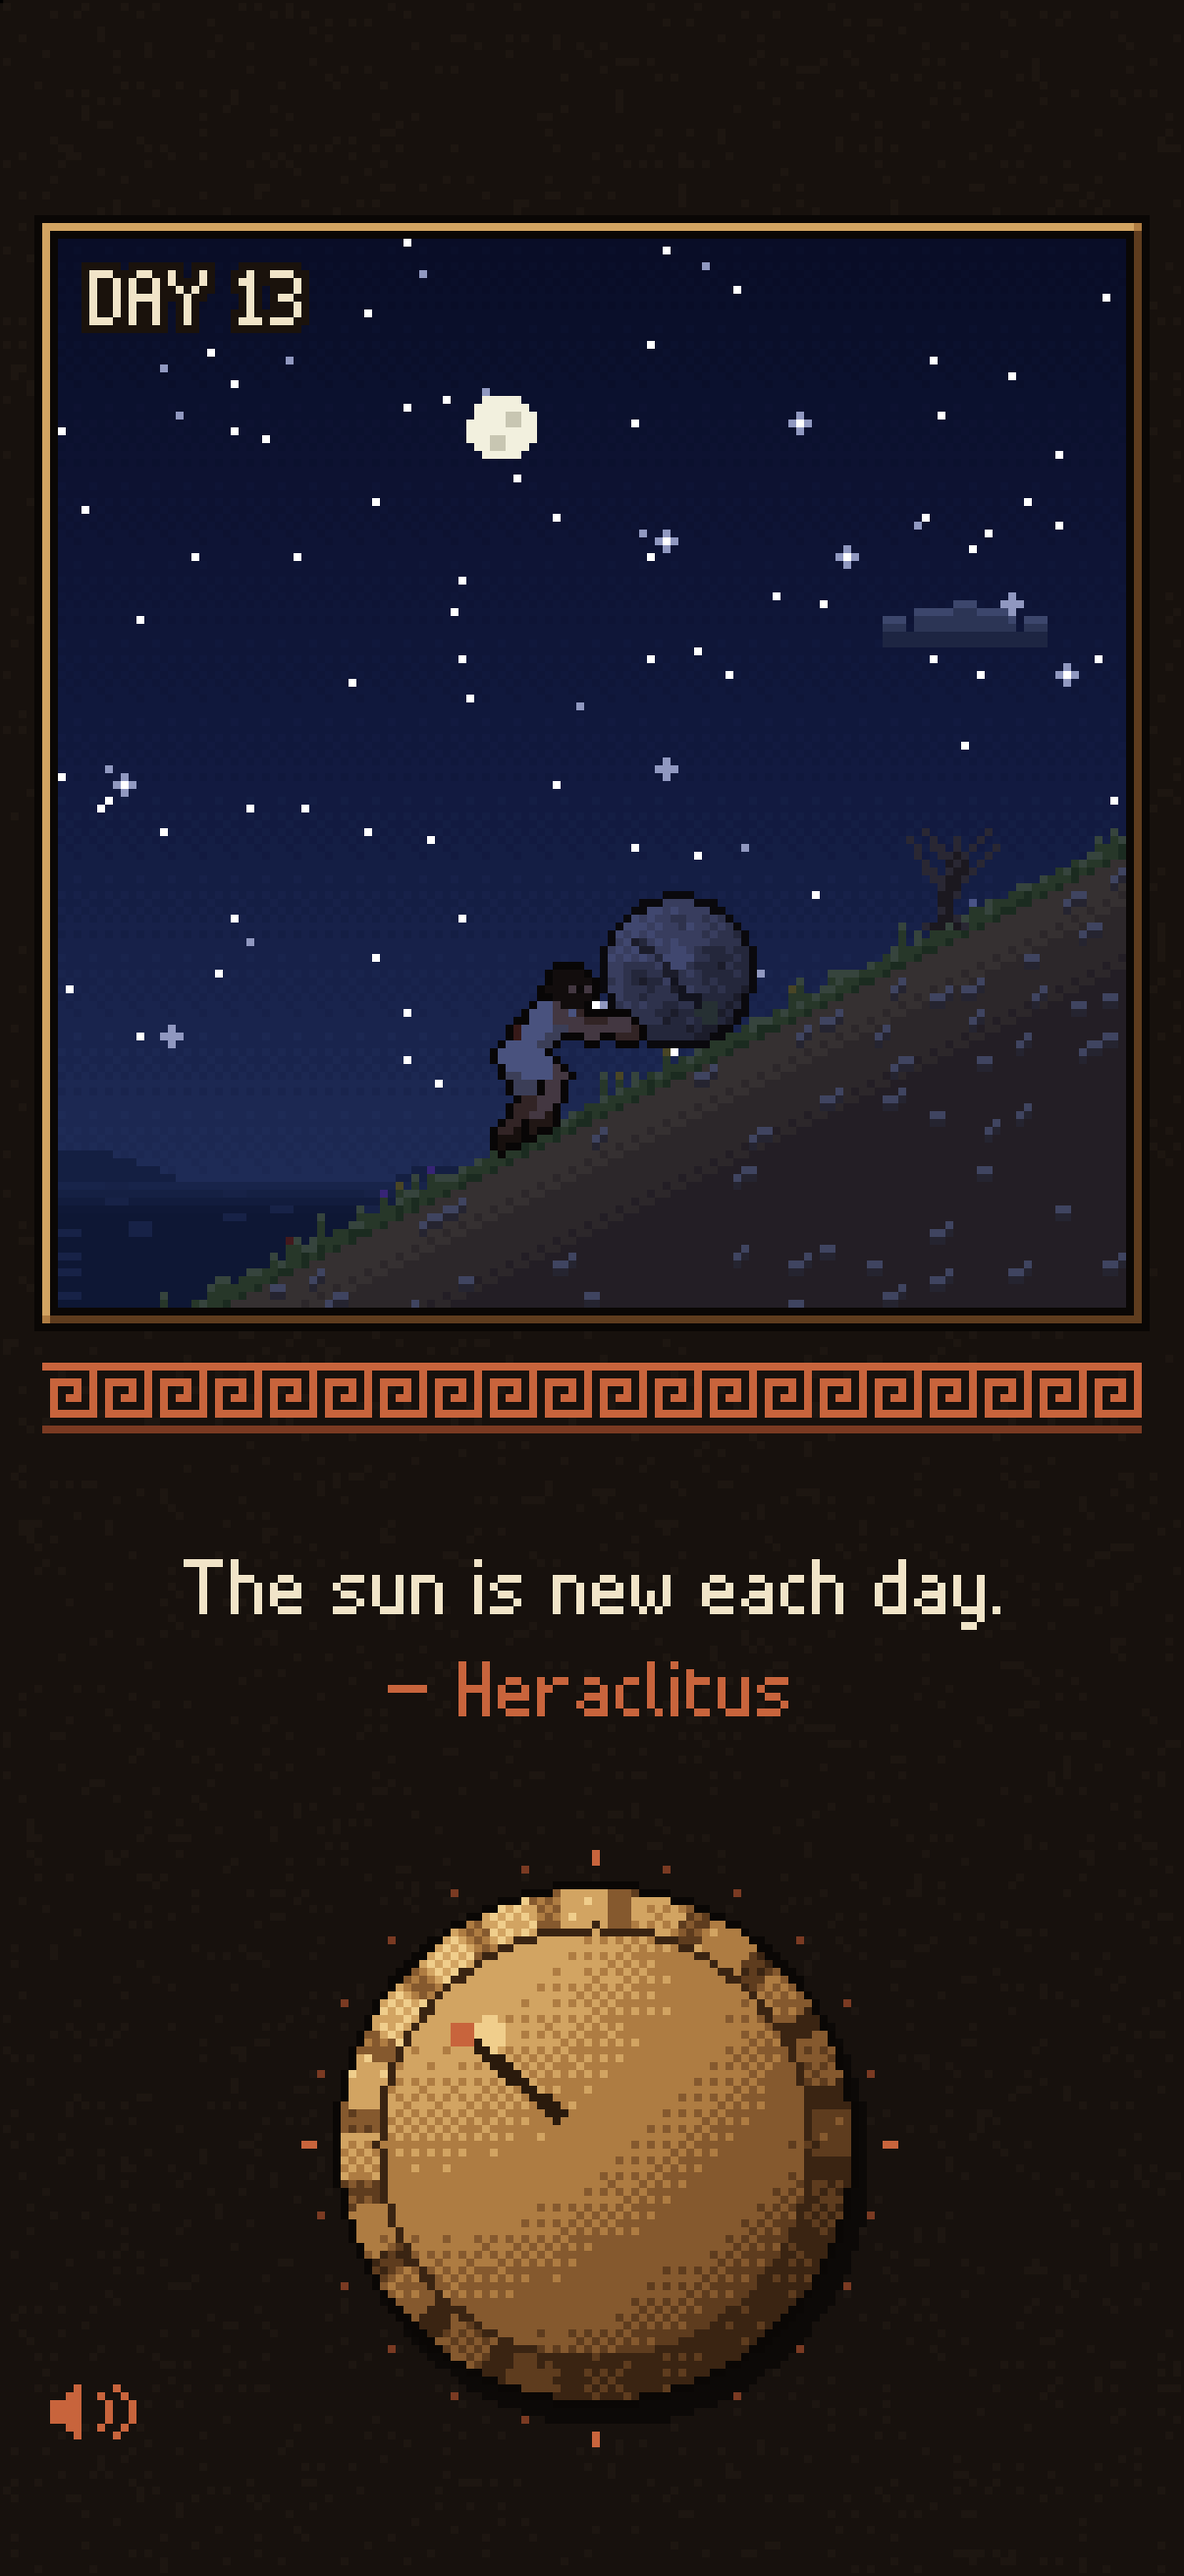
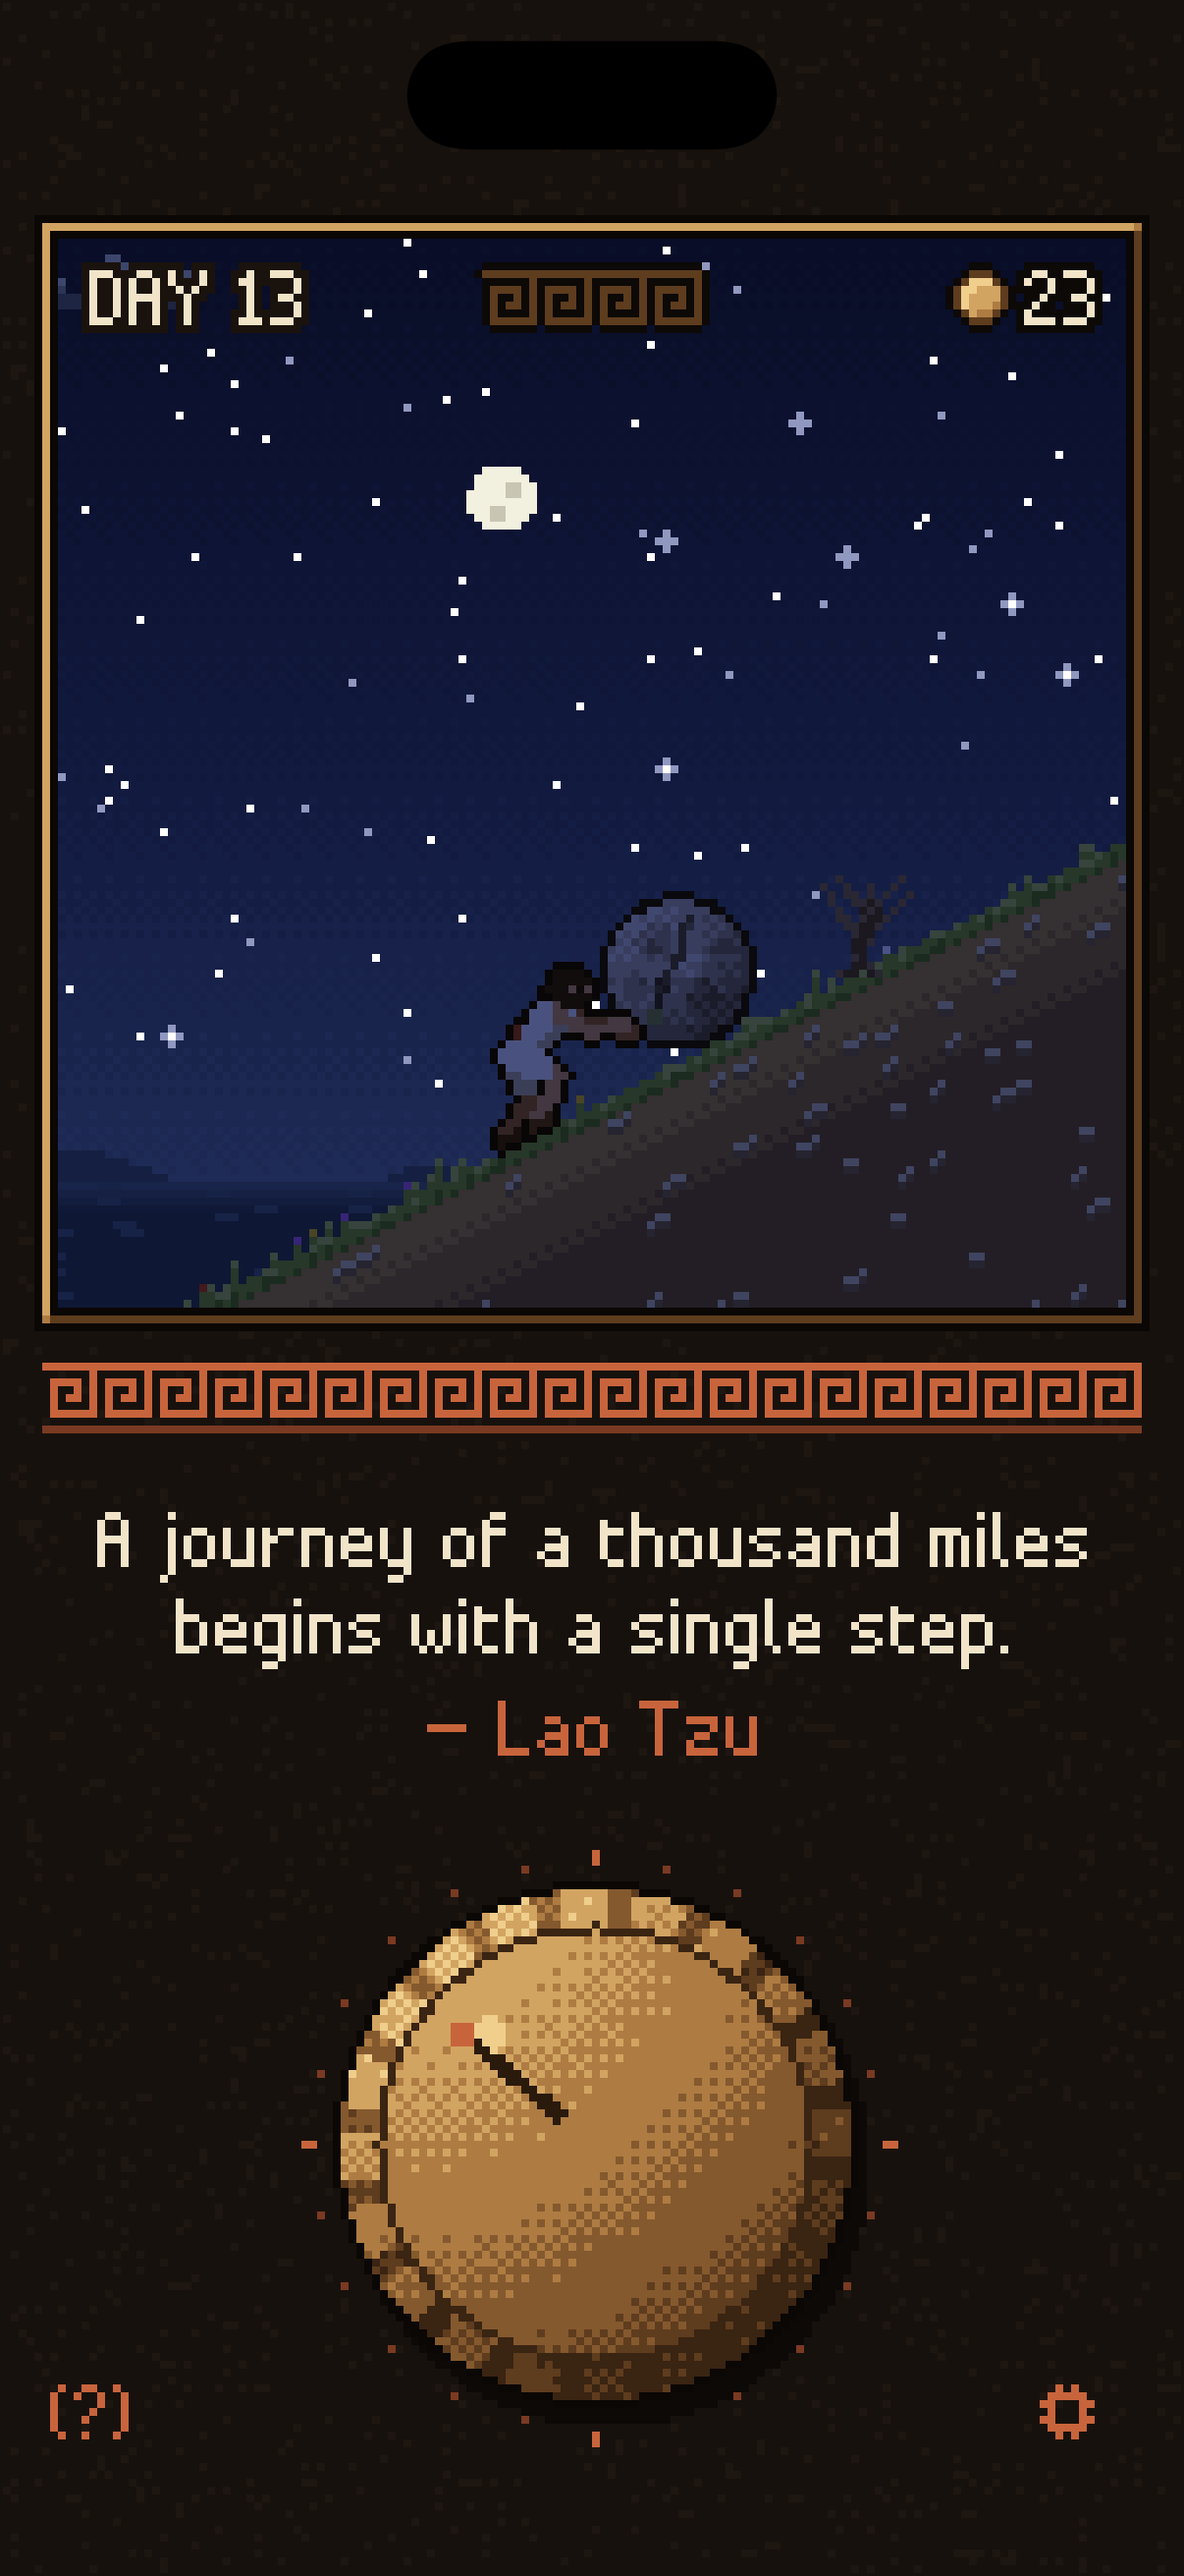
Take new store screenshots for 2.0, with a vision and Diogenes in place of noon and rain
- Morning, sunset and night again, with the obols and new wise words: Camus, Seneca and Lao Tzu.
- A vision: the Sphinx asks who said "Today the rock felt lighter. Or I got stronger."
- Diogenes by the path at noon, with his lamp line.
- stores/listing.md keeps the launch arguments of each shot, to take them again.

diff --git a/stores/listing.md b/stores/listing.md
@@ -50,9 +50,19 @@ Both stores take this text: the What's New of the App Store, and the release not
 
 ## Screenshots
 
-`screenshots/` holds the screenshots of both stores, taken on the iPhone simulator, five of each size: `1-morning.png` to `5-rain.png`.
+`screenshots/` holds the screenshots of both stores, taken on the iPhone simulator, five of each size: `1-morning.png`, `2-vision.png`, `3-sunset.png`, `4-night.png` and `5-diogenes.png`.
 
-- `6.9-inch/`: 1320 × 2868, from the iPhone 16 Pro Max. App Store Connect asks for this size, and can scale it for the smaller iPhones.
-- `6.3-inch/`: 1206 × 2622, from the iPhone 16 Pro, for the 6.3" and 6.1" displays.
+- `6.9-inch/`: 1320 × 2868, from the iPhone 17 Pro Max. App Store Connect asks for this size, and can scale it for the smaller iPhones.
+- `6.3-inch/`: 1206 × 2622, from the iPhone 17 Pro, for the 6.3" and 6.1" displays.
+
+To take them again, install a Release build on a new simulator, and launch it once for each shot with the saved keys as arguments, such as `xcrun simctl launch <sim> dev.oblac.sisyphus -sisyphus.effort 1762.56`. Each shot starts from a new install, with `-sisyphus.laborsSeen 20 -sisyphus.quotesDrawn 1 -sisyphus.nextStele 50000`, and `-sisyphus.nextJoker 50000` in all but Diogenes. The screenshots must have no alpha channel.
+
+| Shot | Arguments |
+|---|---|
+| `1-morning` | `-sisyphus.effort 1762.56 -sisyphus.position 420 -sisyphus.quoteSeed 694 -sisyphus.knob 0.6 -sisyphus.obols 4` |
+| `2-vision` | `-sisyphus.effort 7214.4 -sisyphus.position 700 -sisyphus.quoteSeed 1070 -sisyphus.knob 1.2 -sisyphus.obols 11 -sisyphus.visionSeed 1 -sisyphus.visionsDrawn 1 -sisyphus.nextVision 0.02`, then a turn of the knob; the shot is taken when the Sphinx asks |
+| `3-sunset` | `-sisyphus.effort 9905.76 -sisyphus.position 900 -sisyphus.quoteSeed 805 -sisyphus.knob 4.0 -sisyphus.obols 17` |
+| `4-night` | `-sisyphus.effort 10938.24 -sisyphus.position 580 -sisyphus.quoteSeed 312 -sisyphus.knob 5.4 -sisyphus.obols 23` |
+| `5-diogenes` | `-sisyphus.effort 7110.72 -sisyphus.position 100 -sisyphus.quoteSeed 1879 -sisyphus.knob 2.3 -sisyphus.obols 8 -sisyphus.joker 0 -sisyphus.met.0 0 -sisyphus.nextJoker 134` |
 
 Google Play takes no picture that is more than twice as tall as it is wide. Its screenshots in `playstore/screenshots/` are the 6.9-inch ones, cut to 1320 × 2640: see `playstore/listing.md`.

diff --git a/stores/playstore/listing.md b/stores/playstore/listing.md
@@ -33,7 +33,7 @@ Turn the bronze knob and push the boulder up an endless hill. Calm pixel art.
 
 - App icon (512 × 512): `icon-512.png`
 - Feature graphic (1024 × 500): `feature-graphic.png`
-- Phone screenshots (1320 × 2640): `screenshots/1-morning.png` to `5-rain.png`.
+- Phone screenshots (1320 × 2640): `screenshots/1-morning.png` to `5-diogenes.png`.
 
 Google Play takes no picture that is more than twice as tall as it is wide, so its screenshots are the 6.9-inch iPhone screenshots of `../screenshots/` with 114 rows cut at the top and at the bottom. After new iPhone screenshots, cut them again, from this folder:
 

diff --git a/stores/appstore/listing.md b/stores/appstore/listing.md
@@ -50,8 +50,8 @@ Apple reviews the first purchases only with a version: on the version page, add 
 
 ## Screenshots
 
-- iPhone 6.9" Display: `../screenshots/6.9-inch/1-morning.png` to `5-rain.png`
-- iPhone 6.3" and 6.1" Display: `../screenshots/6.3-inch/1-morning.png` to `5-rain.png`
+- iPhone 6.9" Display: `../screenshots/6.9-inch/1-morning.png` to `5-diogenes.png`
+- iPhone 6.3" and 6.1" Display: `../screenshots/6.3-inch/1-morning.png` to `5-diogenes.png`
 
 ## Build
 
